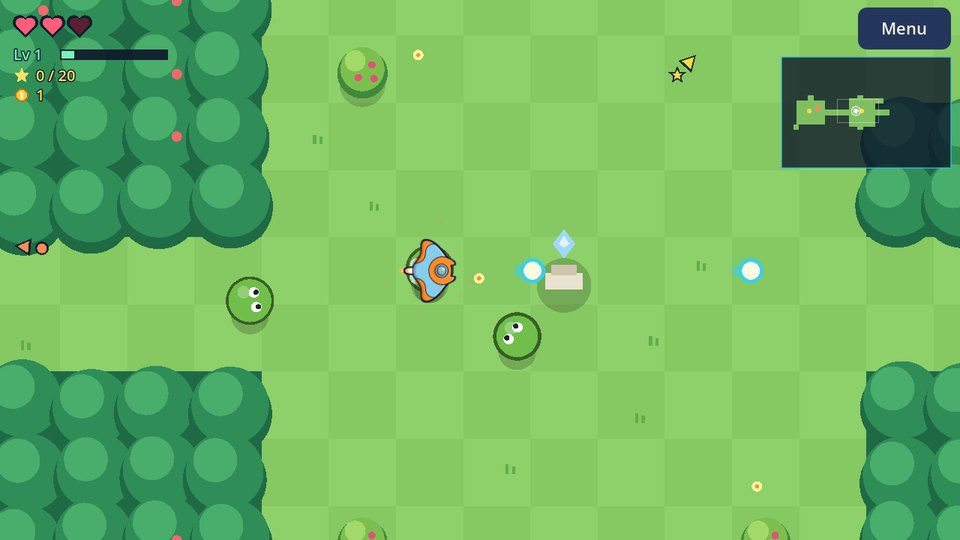
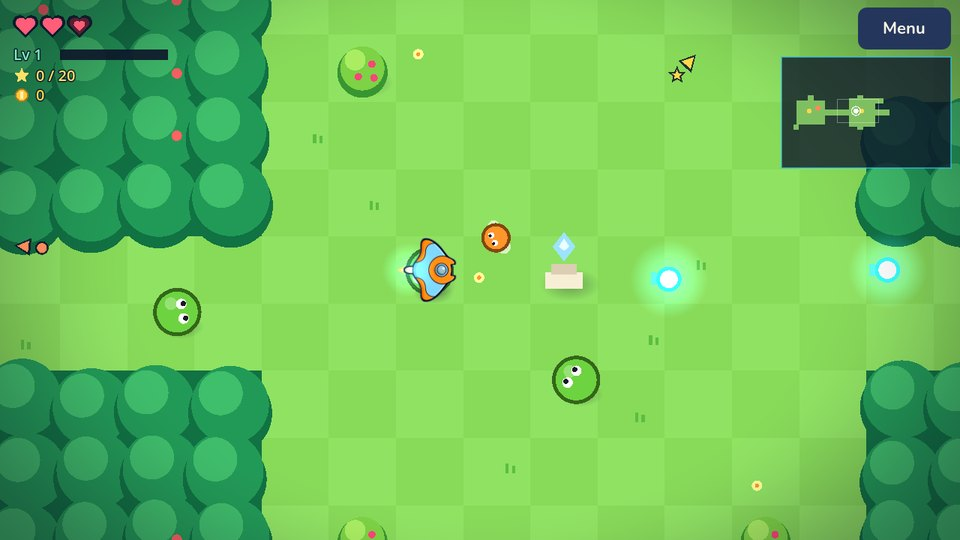
Tiny Tailwind card: Version 0.3.8, new picture, updated stamp
Claude-Session: https://claude.ai/code/session_0117TTYBqTQCoGrxj6BxcToU

diff --git a/index.html b/index.html
@@ -99,11 +99,11 @@ footer{margin-top:40px;color:var(--soft);font-size:14px;text-align:center}
 </article>
 
 <article class="card" data-repo="tiny-tailwind">
-<a class="shot" href="tiny-tailwind/"><img src="images/tiny-tailwind.jpg?v=0.3.6" alt="Tiny Tailwind: the Manta ship shooting at critters in the Sunmeadow" width="960" height="540" loading="lazy"></a>
+<a class="shot" href="tiny-tailwind/"><img src="images/tiny-tailwind.jpg?v=0.3.8" alt="Tiny Tailwind: the Manta ship firing glowing shots at critters in the Sunmeadow" width="960" height="540" loading="lazy"></a>
 <div class="body">
 <div class="top"><h2><a href="tiny-tailwind/">Tiny Tailwind</a></h2><span class="tag">A twin-stick adventure</span></div>
 <p class="desc">Fly a little manta-winged ship through the Sunmeadow. Shoot past brambly critters, gather coins for Wren's Wagon, find 20 keepsakes and calm the warden of the keep. Defeat never costs a thing. Five save slots. Plays with touch, a keyboard or an Xbox controller.</p>
-<p class="meta">Browser and Android<span class="ver"> · Version 0.3.7</span> <span class="upd">· Updated <time datetime="2026-11-16T12:51-06:00">Nov 16, 2026, 12:51 PM CT</time></span></p>
+<p class="meta">Browser and Android<span class="ver"> · Version 0.3.8</span> <span class="upd">· Updated <time datetime="2026-11-16T13:25-06:00">Nov 16, 2026, 1:25 PM CT</time></span></p>
 <div class="actions"><a class="btn" href="tiny-tailwind/">Open game page</a></div>
 </div>
 </article>
